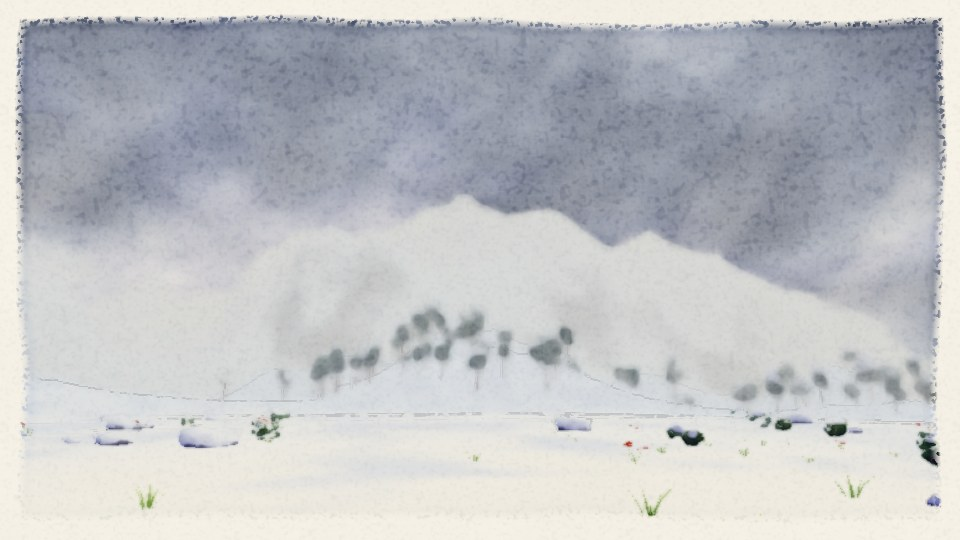
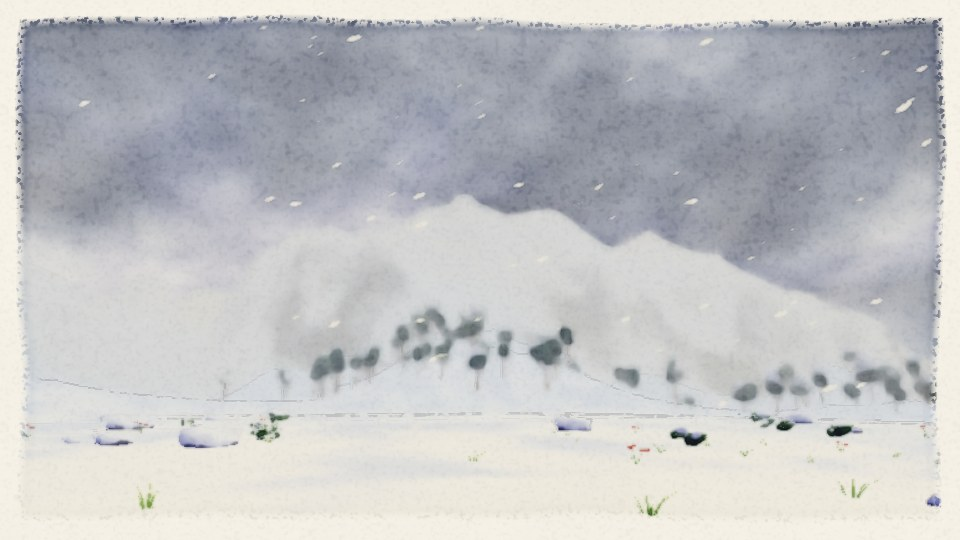
[painter] M3 weather 4: PHYSICS' kits with the painter's materials (src/render/kitmat.js): rain as a few broad wet strokes in the sky's wash, snow as ragged paper flecks, dust as soft drifts in the ground's own ink (16 inks per biome by material, blended under the camera), prints, splash rings on a 

diff --git a/src/world/index.js b/src/world/index.js
@@ -108,7 +108,8 @@ export function createWorld(scene) {
       // internal pixels survive the brush), rain a little broader and longer: a few strokes
       const D = K.DRAW_PAINTED, draw = {};
       for (const k in D) draw[k] = { ...D[k] };
-      draw.rain = { ...D.rain, width: 0.085, exposure: 0.16, minPx: 3.5 };
+      draw.rain = { ...D.rain, width: 0.07, exposure: 0.08, minPx: 5 };
+      draw.snow = { ...D.snow, size: 0.07, minPx: 3.5, maxPx: 6.5, varySize: 0.5 };
       kits = K.createPhysicsKits(P, { makeMaterial: (kind, info) => makeKitMaterial(kind, info, { shapeGlsl: K.SHAPE_GLSL }), weather: { draw } });
     }).catch((e) => console.warn('weather kits not available: ' + e.message));
   }
@@ -238,7 +239,9 @@ export function createWorld(scene) {
       const dayness = 1 - wNight;
       // ---- weather in the picture (PHYSICS' sky numbers; they belong to the air near the ground)
       const sk = skyNow(physics, st.id), air = 1 - space01;
-      const oc = sk ? sk.overcast * air : 0, storm = sk ? sk.storm * air : 0;
+      // (where rain or snow is falling the sky is closed, whatever the cover says)
+      const fall = sk ? Math.max(sk.rain, sk.snowfall) * air : 0;
+      const oc = sk ? Math.max(sk.overcast, 0.75 * fall) * air : 0, storm = sk ? sk.storm * air : 0;
       const hazeK = sk ? Math.min(1, Math.max(0.04, sk.haze / 0.8)) : 1;          // fair weather (0.8 and up) is my clear day
       const lostV = sk ? 1 - hazeK : 0;                                           // how much of the view the weather has taken
       const dustW = sk ? Math.min(1, sk.dust * (0.25 + 1.5 * lostV)) * air : 0, fogW = sk ? Math.min(1, sk.fog * (0.2 + 1.2 * lostV)) * air : 0;
@@ -268,7 +271,7 @@ export function createWorld(scene) {
       bu.uLight.value.copy(tmpKey.light);
       bu.uHaze.value.copy(tmpKey.haze);
       bu.uDayness.value = dayness;
-      if (st.id !== lastActive) freshSnow = 0;
+      if (lastActive && st.id !== lastActive) freshSnow = 0;
       freshSnow = Math.min(1, Math.max(0, freshSnow + dt * (veilS > 0.02 ? veilS / 22 : -1 / 300)));
       const snowC = sk ? (WX.forced ? sk.snow : Math.min(sk.snow, freshSnow)) * air : 0;
       bu.uWx.value.set(Math.min(1, oc + dustW * 0.6), sk ? sk.wet * air : 0, snowC, Math.max(veilR, veilS));
@@ -278,7 +281,7 @@ export function createWorld(scene) {
       // inks for the kits: each ground material in this place's own washes; rain is the sky's wet wash
       if (kits) {
         kitInks(st, here.biomeWeights);
-        KIT_INK.rain.copy(tmpKey.haze).lerp(_storm, 0.55);
+        KIT_INK.rain.copy(tmpKey.haze).lerp(_storm, 0.38);
         KIT_INK.dust.copy(KIT_PALETTE[5]); KIT_INK.sand.copy(KIT_PALETTE[4]);
       }
       const v0 = look.visibility[0], v1 = look.visibility[1];
@@ -292,7 +295,7 @@ export function createWorld(scene) {
       skyU.uHaze.value.copy(tmpKey.haze);
       skyU.uCloudShade.value.copy(tmpKey.cloudShade);
       // cloud cover: the world's own share in fair weather, closing in as the weather says
-      const cover = sk ? look.cloud * 0.8 + (Math.max(look.cloud, 0.82) - look.cloud * 0.8) * THREE.MathUtils.smoothstep(Math.max(sk.cloud * air, dustW * 0.8), 0.12, 0.9) : look.cloud;
+      const cover = sk ? look.cloud * 0.8 + (Math.max(look.cloud, 0.82) - look.cloud * 0.8) * THREE.MathUtils.smoothstep(Math.max(sk.cloud * air, dustW * 0.8, fall), 0.12, 0.9) : look.cloud;
       skyU.uCloud.value.set(body.radius + atmH * 0.55, cover, Math.max(900, atmH * 3.2), 0.0006);
       skyU.uAtmo.value.set(space01, dayness, 0.042, body.radius);
       st.root.getWorldQuaternion(_q);

diff --git a/src/render/kitmat.js b/src/render/kitmat.js
@@ -46,13 +46,14 @@ export function biomeInks(pal, liquid) {
 // and float lv (light level for pcTone: 2 local colour)
 const SHAPES = {
   // rain: a broad stroke, full at the head and thinning to its tail, laid wet
-  rain: 'float tpr = abs(vPcUv.x - 0.5) * 2.0; if (tpr > 1.0 - 0.6 * vPcUv.y * vPcUv.y) discard; vec3 c = ink * (0.90 + 0.10 * vPcData.x); float w = 0.95;',
+  // (nothing right in front of the lens: a drop a metre away would be a stick across the sheet)
+  rain: 'float tpr = abs(vPcUv.x - 0.5) * 2.0; if (tpr > 1.0 - 0.6 * vPcUv.y * vPcUv.y || length(vView) < 3.2) discard; vec3 c = ink * (0.93 + 0.07 * vPcData.x); float w = 0.95;',
   streak: 'float tpr = abs(vPcUv.x - 0.5) * 2.0; if (tpr > 1.0 - 0.8 * vPcUv.y) discard; vec3 c = ink * vPcData.x; float w = 0.55;',
   dab: 'if (length(vPcUv - 0.5) > 0.5) discard; vec3 c = ink * vPcData.x; float w = 0.35;',
   // a flake: a speck of bare paper with a ragged edge (drawn out along its motion by the kit)
-  flake: 'float rr = length(vPcUv - 0.5) * 2.0; if (rr > 0.78 + 0.22 * texture(uNoise3D, vec3(vPcUv * 2.3, vPcData.x * 7.0)).r) discard; vec3 c = ink; float w = 0.05;',
+  flake: 'float rr = length((vPcUv - 0.5) * vec2(1.0, 1.25)) * 2.0; if (rr > 0.42 + 0.75 * texture(uNoise3D, vec3(vPcUv * 1.7, vPcData.x * 7.0)).r) discard; vec3 c = ink; float w = 0.05;',
   // dust: a ragged dry-brush patch thinning toward its edge; the pattern travels with the puff
-  puff: 'float rr = length(vPcUv - 0.5) * 2.0; if (rr > 1.0) discard; float nz = 0.62 * texture(uNoise3D, vec3(vPcUv * 1.3, vPcData.x * 5.0)).r + 0.38 * texture(uNoise3D, vec3(vPcUv * vec2(3.0, 7.0), vPcData.x * 9.0)).g; if (nz < 0.47 + 0.5 * rr * rr) discard; vec3 c = mix(vec3(1.0), ink, 0.8) * (0.9 + 0.1 * vPcData.x); float w = 0.75;',
+  puff: 'float rr = length(vPcUv - 0.5) * 2.0; if (rr > 1.0) discard; float nz = 0.62 * texture(uNoise3D, vec3(vPcUv * 1.3, vPcData.x * 5.0)).r + 0.38 * texture(uNoise3D, vec3(vPcUv * vec2(3.0, 7.0), vPcData.x * 9.0)).g; if (nz < 0.40 + 0.6 * rr * rr) discard; vec3 c = mix(uHaze * 0.97, pcDensity(ink, 1.25), 0.42 + 0.10 * vPcData.x); float w = 0.95;',
   // a splash ring: a broken circle of paper, a little wider than the physics draws it so that
   // it is a mark and not a hairline
   ring: 'if (pcPhysRingCover(vPcUv, vPcData.z) * (0.4 + 0.6 * vPcData.y) < 0.12) discard; if (texture(uNoise3D, vec3(vPcUv * 2.1, vPcData.w * 37.0)).r < 0.36) discard; vec3 c = ink; float w = 0.0;',
@@ -66,11 +67,12 @@ function shapeOf(kind, info) {
   if (kind === 'dust' || kind === 'ash' || kind === 'sand') return kind === 'sand' ? SHAPES.streak : SHAPES.puff;
   return SHAPES[info.shape] || SHAPES.dab;
 }
-// region ids: rain, snow and spray belong with the sky's wet washes (2.x), drifts with the
-// ground (1.x), leaves with foliage (4.x); rings are 6: kept crisp by the post pass
+// region ids: prints belong to the ground (1); splash rings are 6 (kept crisp by the post
+// pass); everything in the air is 7 (no graphite line is drawn round a raindrop or a puff)
 function regionOf(kind, info) {
   if (kind === 'ring' || info.shape === 'ring') return 6.0;
-  return info.region || 1.0;
+  if (kind === 'mark' || info.shape === 'mark') return 1.0;
+  return 7.0;
 }
 
 // makeKitMaterial(kind, info, { bodyUniforms, shapeGlsl }): PHYSICS' reference factory with the

diff --git a/src/art/gallery.js b/src/art/gallery.js
@@ -322,8 +322,12 @@ function tick(now) {
   if (ship) { placeModel(ship, Math.sin(state.yaw) * 14 - 6, Math.cos(state.yaw) * 14); ship.animate({ mode: 'landed' }, dt); }
   if (physics) {
     const up = state.pos.clone().normalize();
+    // what pushes the grass about: the explorer on show, and the ship's downwash (?wash=<newtons>)
+    const disturbers = [];
+    if (explorer) { const p = world.bodies.get(bodyId).worldToLocal(explorer.object3D.position.clone()); disturbers.push({ kind: 'explorer', p, v: { x: 0, y: 0, z: 0 }, radius: 0.45, strength: 1, grounded: true }); }
+    if (ship && P.has('wash')) { const p = world.bodies.get(bodyId).worldToLocal(ship.object3D.position.clone()); disturbers.push({ kind: 'downwash', p, v: { x: 0, y: 0, z: 0 }, radius: 6, strength: num('wash', 60000) }); }
     const L0 = world.getLighting();
-    const fr = { bodyId, time: wtime, focus: up.multiplyScalar(groundRadius(up)), sunDir: world.bodyUniforms(bodyId).uSunDirL.value };
+    const fr = { bodyId, time: wtime, focus: up.multiplyScalar(groundRadius(up)), eye: state.pos, sunDir: world.bodyUniforms(bodyId).uSunDirL.value, disturbers };
     // pre-roll: let the weather fall for a while before the first frame, ending at wtime
     for (; preroll > 0; preroll -= 1 / 30) { fr.time = wtime - preroll; physics.update(1 / 30, fr); }
     fr.time = wtime;

diff --git a/src/render/post.js b/src/render/post.js
@@ -172,6 +172,7 @@ void main() {
   float idc = max(abs(c1 - c0), abs(c2 - c0)) * min(solid, 1.0);
   float fol = max(step(3.5, a0.w) * step(a0.w, 4.99), max(step(3.5, a1.w) * step(a1.w, 4.99), step(3.5, a2.w) * step(a2.w, 4.99)));
   float line = max(smoothstep(0.14, 0.38, dz) * 0.6, min(idc, 1.0) * 0.38) * (1.0 - fol * 0.85);
+  line *= 1.0 - max(step(5.5, a0.w), max(step(5.5, a1.w), step(5.5, a2.w)));   // nothing is outlined in the air
   line *= smoothstep(0.50, 0.70, plo.r + (pmid.r - 0.5) * 0.7) * (0.30 + 0.70 * smoothstep(0.35, 0.6, ph)) * (1.0 - smoothstep(6.5, 9.5, a0.z));
   col *= mix(vec3(1.0), vec3(0.46, 0.46, 0.50), line * uPig.w);
 
